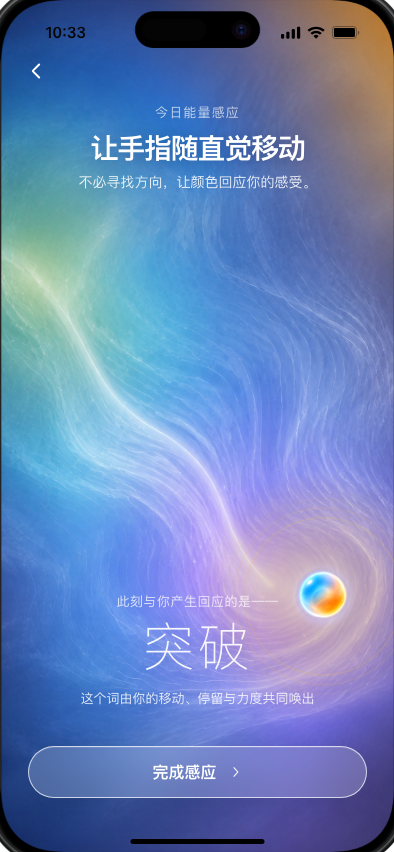
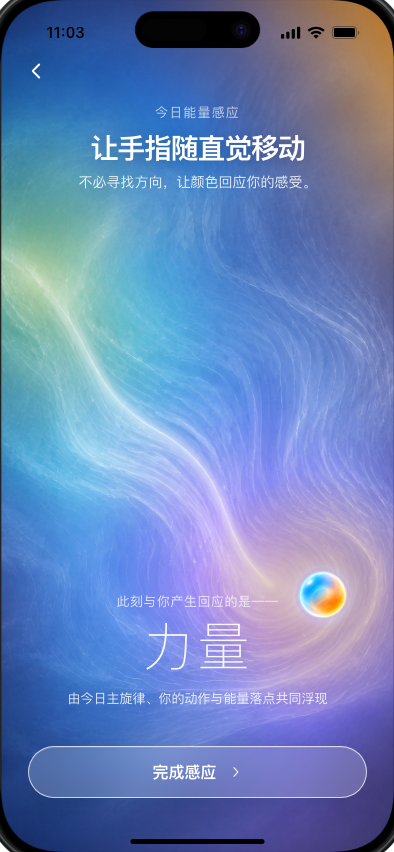
Connect sensing words to energy recommendations

Changed region(s): [[0.1827, 0.7324, 0.8223, 0.8239], [0.1218, 0.0305, 0.2132, 0.061]]

diff --git a/haf-energy-journey-h5/src/Prototype.tsx b/haf-energy-journey-h5/src/Prototype.tsx
@@ -402,7 +402,8 @@ function synthesizeEnergy(point: Point, lifePath: number, personalDay: number, d
   const projection = projectChakras(point, lifePath, personalDay);
   const keywordIds = Object.keys(synthesisModel.keywords) as KeywordId[];
   const scores = Object.fromEntries(keywordIds.map((id) => [id, 0])) as Record<KeywordId, number>;
-  // The moment keyword is intentionally independent from numerology so the user's compass input stays visible.
+  scores[synthesisModel.number_keyword[String(personalDay)]] += synthesisModel.weights.personal_day;
+  scores[synthesisModel.number_keyword[String(lifePath)] ?? synthesisModel.number_keyword[String(reduceNumber(lifePath))]] += synthesisModel.weights.life_path;
   scores[synthesisModel.chakra_keyword[projection.primary.id]] += synthesisModel.weights.primary_chakra;
   scores[synthesisModel.chakra_keyword[projection.secondary.id]] += synthesisModel.weights.secondary_chakra;
   const horizontalMembership = {
@@ -441,9 +442,8 @@ function synthesizeEnergy(point: Point, lifePath: number, personalDay: number, d
   const keyword = synthesisModel.keywords[keywordId];
   const dailyTheme = synthesisModel.keywords[dailyThemeId];
   const numberTheme = numberThemes[String(personalDay)];
-  const momentKey = `${horizontal}_${vertical}`;
-  const readingSeed = `${dateKey}:${personalDay}:${momentKey}:${intensity.id}:${projection.primary.id}:${projection.secondary.id}`;
-  const energySummary = `${chooseStable(momentReadings[momentKey], `${readingSeed}:moment`)}${chooseStable(themeCounsel[dailyThemeId], `${readingSeed}:theme`)}`;
+  const energySummary = `今天的主旋律是“${dailyTheme.display}”，你此刻从“${keyword.display}”靠近；${projection.primary.zh}提醒你留意${projection.primary.themes[0]}。`;
+  const signalsAlign = dailyThemeId === keywordId;
   return {
     dailyThemeId,
     dailyTheme,
@@ -458,14 +458,14 @@ function synthesizeEnergy(point: Point, lifePath: number, personalDay: number, d
       vertical: { id: vertical, label: synthesisModel.compass_labels[vertical] },
     },
     intensity,
-    compositeTitle: dailyTheme.display,
-    compositeLine: dailyTheme.guidance,
+    compositeTitle: signalsAlign ? dailyTheme.display : `${keyword.display} · ${dailyTheme.display}`,
+    compositeLine: signalsAlign ? "今天的主旋律，也正是你此刻最需要靠近的方向。" : `以${keyword.display}的方式，靠近今天的${dailyTheme.display}。`,
     energySummary,
     chakraSummary: `${projection.primary.zh}是今天较清晰的线索，邀请你留意${projection.primary.themes.slice(0, 2).join("与")}；${projection.secondary.zh}也在提醒你，为${projection.secondary.themes[0]}留一点空间。${numberTheme?.gentle_prompt ?? ""}`,
   };
 }
 
-type FitReasonMode = "numerology" | "chakra" | "compass" | "practice";
+type FitReasonMode = "keyword" | "numerology" | "chakra" | "compass" | "practice";
 
 function buildCourseFitReason(
   course: CatalogCourse,
@@ -488,15 +488,16 @@ function buildCourseFitReason(
   const matchesCompass = course.energy_poles.includes(insight.direction.horizontal.id)
     || course.energy_poles.includes(insight.direction.vertical.id);
   const validModes: Record<FitReasonMode, boolean> = {
+    keyword: course.keyword_tags.includes(insight.keywordId),
     numerology: matchesNumerology,
     chakra: Boolean(matchedChakra),
     compass: matchesCompass,
     practice: true,
   };
   const modeOrders: FitReasonMode[][] = [
-    ["numerology", "chakra", "compass", "practice"],
-    ["chakra", "compass", "numerology", "practice"],
-    ["compass", "practice", "chakra", "numerology"],
+    ["keyword", "numerology", "chakra", "compass", "practice"],
+    ["chakra", "keyword", "compass", "numerology", "practice"],
+    ["compass", "keyword", "practice", "chakra", "numerology"],
   ];
   const orderedModes = modeOrders[index] ?? modeOrders[2];
   const mode = orderedModes.find((candidate) => validModes[candidate] && !usedModes.has(candidate))
@@ -513,6 +514,13 @@ function buildCourseFitReason(
     outward_active: "从互动与行动进入状态",
   };
   const seed = `${dateKey}:${course.course_id}:${insight.keywordId}:${mode}`;
+  if (mode === "keyword") {
+    return chooseStable([
+      `你停下来的“${insight.keyword.display}”也出现在这场体验的线索里；${experience}让这份回应有一个具体入口。`,
+      `此刻浮现的“${insight.keyword.display}”与${experience}彼此呼应，可以先收藏，在合适的时候进入。`,
+      `顺着你感应到的“${insight.keyword.display}”，${experience}提供了一条更具体的体验路径。`,
+    ], seed);
+  }
   if (mode === "numerology") {
     return chooseStable([
       `此刻的“${insight.dailyTheme.display}”需要一个具体入口；${experience}让它先变得可被感知。`,
@@ -667,7 +675,7 @@ function dailyGreetingCacheKey(dateKey: string, dayNumber: number, lifePath: num
 }
 
 function energyReadingCacheKey(dateKey: string, dayNumber: number, insight: EnergyInsight) {
-  return `haf-energy-reading:${dateKey}:${dayNumber}:${insight.direction.horizontal.id}:${insight.direction.vertical.id}:${insight.intensity.id}:${insight.primaryChakra.id}:${insight.secondaryChakra.id}`;
+  return `haf-energy-reading:v2:${dateKey}:${dayNumber}:${insight.keywordId}:${insight.direction.horizontal.id}:${insight.direction.vertical.id}:${insight.intensity.id}:${insight.primaryChakra.id}:${insight.secondaryChakra.id}`;
 }
 
 async function requestJson<T>(endpoint: string, payload: Record<string, unknown>): Promise<T | null> {
@@ -1069,14 +1077,14 @@ function ProfileScreen() {
   );
 }
 
-const sensingDimensions: Record<ChakraId, { core: string; words: string[]; tone: string }> = {
-  root: { core: "稳定", words: ["落地", "安定", "扎根", "承载"], tone: "#9c3141" },
-  sacral: { core: "生命力", words: ["焕发", "流动", "感受", "创造"], tone: "#e47b32" },
-  solar_plexus: { core: "行动力", words: ["突破", "勇气", "选择", "行动"], tone: "#e0b344" },
-  heart: { core: "关系", words: ["链接", "敞开", "共鸣", "接纳"], tone: "#75b99a" },
-  throat: { core: "表达", words: ["发声", "真实", "沟通", "释放"], tone: "#3db7d4" },
-  third_eye: { core: "洞察", words: ["内观", "求索", "看见", "清明"], tone: "#526bd3" },
-  crown: { core: "意识", words: ["觉醒", "超越", "整合", "领悟"], tone: "#9b72d0" },
+const sensingDimensions: Record<ChakraId, { core: string; tone: string }> = {
+  root: { core: "稳定", tone: "#9c3141" },
+  sacral: { core: "生命力", tone: "#e47b32" },
+  solar_plexus: { core: "行动力", tone: "#e0b344" },
+  heart: { core: "关系", tone: "#75b99a" },
+  throat: { core: "表达", tone: "#3db7d4" },
+  third_eye: { core: "洞察", tone: "#526bd3" },
+  crown: { core: "意识", tone: "#9b72d0" },
 };
 
 type SensingCursor = {
@@ -1105,6 +1113,7 @@ function SensingRippleCanvas({ cursor, active }: { cursor: SensingCursor; active
   const lastSequenceRef = useRef(-1);
   const ripplesRef = useRef<Array<{ x: number; y: number; pressure: number; tone: string; born: number }>>([]);
   const trailRef = useRef<Array<{ x: number; y: number; pressure: number; tone: string; born: number }>>([]);
+  const lastRippleAtRef = useRef(0);
 
   useEffect(() => {
     cursorRef.current = cursor;
@@ -1113,9 +1122,12 @@ function SensingRippleCanvas({ cursor, active }: { cursor: SensingCursor; active
     lastSequenceRef.current = cursor.sequence;
     const born = performance.now();
     trailRef.current.push({ x: cursor.x, y: cursor.y, pressure: cursor.pressure, tone: cursor.tone, born });
-    if (active) ripplesRef.current.push({ x: cursor.x, y: cursor.y, pressure: cursor.pressure, tone: cursor.tone, born });
-    trailRef.current = trailRef.current.slice(-28);
-    ripplesRef.current = ripplesRef.current.slice(-18);
+    if (active && born - lastRippleAtRef.current >= 420) {
+      ripplesRef.current.push({ x: cursor.x, y: cursor.y, pressure: cursor.pressure, tone: cursor.tone, born });
+      lastRippleAtRef.current = born;
+    }
+    trailRef.current = trailRef.current.slice(-18);
+    ripplesRef.current = ripplesRef.current.slice(-5);
   }, [active, cursor]);
 
   useEffect(() => {
@@ -1125,7 +1137,15 @@ function SensingRippleCanvas({ cursor, active }: { cursor: SensingCursor; active
     if (!context) return undefined;
     const prefersReducedMotion = window.matchMedia("(prefers-reduced-motion: reduce)").matches;
     let frame = 0;
+    let lastFrameTime = 0;
     const render = (now: number) => {
+      const hasTransientMotion = activeRef.current || trailRef.current.length > 0 || ripplesRef.current.length > 0;
+      const frameInterval = hasTransientMotion ? 32 : 250;
+      if (now - lastFrameTime < frameInterval) {
+        frame = window.requestAnimationFrame(render);
+        return;
+      }
+      lastFrameTime = now;
       const bounds = canvas.getBoundingClientRect();
       const ratio = Math.min(window.devicePixelRatio || 1, 2);
       const width = Math.max(1, Math.round(bounds.width * ratio));
@@ -1148,7 +1168,7 @@ function SensingRippleCanvas({ cursor, active }: { cursor: SensingCursor; active
       context.fillStyle = glow;
       context.fillRect(0, 0, bounds.width, bounds.height);
 
-      const visibleTrail = prefersReducedMotion ? [] : trailRef.current.filter((item) => now - item.born < 1700);
+      const visibleTrail = prefersReducedMotion ? [] : trailRef.current.filter((item) => now - item.born < 1200);
       trailRef.current = visibleTrail;
       if (visibleTrail.length > 1) {
         const latest = visibleTrail[visibleTrail.length - 1];
@@ -1172,16 +1192,15 @@ function SensingRippleCanvas({ cursor, active }: { cursor: SensingCursor; active
         context.shadowBlur = 0;
       }
 
-      ripplesRef.current = prefersReducedMotion ? [] : ripplesRef.current.filter((ripple) => now - ripple.born < 1500);
+      ripplesRef.current = prefersReducedMotion ? [] : ripplesRef.current.filter((ripple) => now - ripple.born < 950);
       ripplesRef.current.forEach((ripple) => {
-        const age = clampSensing((now - ripple.born) / 1500, 0, 1);
-        const rippleRgb = toneRgb(ripple.tone);
+        const age = clampSensing((now - ripple.born) / 950, 0, 1);
         context.beginPath();
-        context.arc(ripple.x, ripple.y, 12 + age * (58 + ripple.pressure * 58), 0, Math.PI * 2);
-        context.lineWidth = 1 + (1 - age) * ripple.pressure * 2.4;
-        context.strokeStyle = `rgba(${rippleRgb.r},${rippleRgb.g},${rippleRgb.b},${(1 - age) * (.36 + ripple.pressure * .34)})`;
-        context.shadowColor = `rgba(255,255,255,${(1 - age) * .34})`;
-        context.shadowBlur = 8 + ripple.pressure * 14;
+        context.arc(ripple.x, ripple.y, 14 + age * (42 + ripple.pressure * 34), 0, Math.PI * 2);
+        context.lineWidth = .8 + (1 - age) * ripple.pressure * 1.2;
+        context.strokeStyle = `rgba(255,255,255,${(1 - age) * (.24 + ripple.pressure * .2)})`;
+        context.shadowColor = `rgba(255,255,255,${(1 - age) * .26})`;
+        context.shadowBlur = 6 + ripple.pressure * 8;
         context.stroke();
       });
       context.shadowBlur = 0;
@@ -1197,29 +1216,30 @@ function SensingRippleCanvas({ cursor, active }: { cursor: SensingCursor; active
 
 function CompassScreen() {
   const flow = useFlow();
-  const { point, setPoint, lifePath, dayNumber } = useJourney();
-  const initialProjection = useMemo(() => projectChakras(point, lifePath, dayNumber), [dayNumber, lifePath, point]);
+  const { point, setPoint, lifePath, dayNumber, dateKey } = useJourney();
+  const initialInsight = useMemo(() => synthesizeEnergy(point, lifePath, dayNumber, dateKey), [dateKey, dayNumber, lifePath, point]);
   const [phase, setPhase] = useState<"idle" | "sensing" | "locked">("idle");
-  const [dimensionId, setDimensionId] = useState<ChakraId>(initialProjection.primary.id);
-  const [currentWord, setCurrentWord] = useState(sensingDimensions[initialProjection.primary.id].words[0]);
+  const [dimensionId, setDimensionId] = useState<ChakraId>(initialInsight.primaryChakra.id);
+  const [currentKeywordId, setCurrentKeywordId] = useState<KeywordId>(initialInsight.keywordId);
+  const [currentDirection, setCurrentDirection] = useState(initialInsight.direction);
+  const [readyToComplete, setReadyToComplete] = useState(false);
   const [cursor, setCursor] = useState<SensingCursor>({
     x: 196,
     y: 448,
     xRatio: (point.x + 1) / 2,
     yRatio: (point.y + 1) / 2,
     pressure: .22,
-    tone: sensingDimensions[initialProjection.primary.id].tone,
+    tone: sensingDimensions[initialInsight.primaryChakra.id].tone,
     sequence: 0,
   });
   const livePointRef = useRef(point);
-  const wordIndexRef = useRef<Record<string, number>>({});
+  const pendingInsightRef = useRef(initialInsight);
   const sessionRef = useRef({ start: 0, lastTime: 0, lastX: 196, lastY: 448, totalTravel: 0, lastWordAt: 0 });
 
-  const advanceWord = (nextDimensionId: ChakraId) => {
-    const words = sensingDimensions[nextDimensionId].words;
-    const nextIndex = ((wordIndexRef.current[nextDimensionId] ?? -1) + 1) % words.length;
-    wordIndexRef.current[nextDimensionId] = nextIndex;
-    setCurrentWord(words[nextIndex]);
+  const revealInsight = (insight: EnergyInsight) => {
+    setCurrentKeywordId(insight.keywordId);
+    setCurrentDirection(insight.direction);
+    setDimensionId(insight.primaryChakra.id);
   };
 
   const updateGesture = (event: ReactPointerEvent<HTMLDivElement>) => {
@@ -1246,11 +1266,13 @@ function CompassScreen() {
       y: clampSensing(rawPoint.y + forcefulMovement * .3 - slowCenter * .22, -.88, .88),
     };
     livePointRef.current = shapedPoint;
-    const projection = projectChakras(shapedPoint, lifePath, dayNumber);
-    const nextDimensionId = projection.primary.id;
-    if (nextDimensionId !== dimensionId && now - session.lastWordAt > 520) {
-      setDimensionId(nextDimensionId);
-      advanceWord(nextDimensionId);
+    const nextInsight = synthesizeEnergy(shapedPoint, lifePath, dayNumber, dateKey);
+    pendingInsightRef.current = nextInsight;
+    const nextDimensionId = nextInsight.primaryChakra.id;
+    setDimensionId(nextDimensionId);
+    setCurrentDirection(nextInsight.direction);
+    if (nextInsight.keywordId !== currentKeywordId && now - session.lastWordAt >= 1650) {
+      revealInsight(nextInsight);
       session.lastWordAt = now;
     }
     const nativePressure = event.pressure > 0 ? event.pressure : 0;
@@ -1276,15 +1298,22 @@ function CompassScreen() {
       const session = sessionRef.current;
       const holdPressure = clampSensing((now - session.start) / 1200, 0, 1);
       setCursor((current) => ({ ...current, pressure: Math.max(current.pressure, .22 + holdPressure * .46), sequence: current.sequence + 1 }));
-      if (now - session.lastWordAt >= 1750) {
-        const projection = projectChakras(livePointRef.current, lifePath, dayNumber);
-        setDimensionId(projection.primary.id);
-        advanceWord(projection.primary.id);
+      if (now - session.lastWordAt >= 1650) {
+        revealInsight(pendingInsightRef.current);
         session.lastWordAt = now;
       }
     }, 140);
     return () => window.clearInterval(timer);
-  }, [dayNumber, lifePath, phase]);
+  }, [phase]);
+
+  useEffect(() => {
+    if (phase !== "locked") {
+      setReadyToComplete(false);
+      return undefined;
+    }
+    const timer = window.setTimeout(() => setReadyToComplete(true), 650);
+    return () => window.clearTimeout(timer);
+  }, [phase]);
 
   const beginSensing = (event: ReactPointerEvent<HTMLDivElement>) => {
     event.preventDefault();
@@ -1294,7 +1323,7 @@ function CompassScreen() {
     const localX = clampSensing(event.clientX - bounds.left, 0, bounds.width);
     const localY = clampSensing(event.clientY - bounds.top, 0, bounds.height);
     sessionRef.current = { start: now, lastTime: now, lastX: localX, lastY: localY, totalTravel: 0, lastWordAt: now };
-    wordIndexRef.current = {};
+    pendingInsightRef.current = synthesizeEnergy(livePointRef.current, lifePath, dayNumber, dateKey);
     setPhase("sensing");
     updateGesture(event);
   };
@@ -1304,11 +1333,12 @@ function CompassScreen() {
     updateGesture(event);
     event.currentTarget.releasePointerCapture(event.pointerId);
     setPoint(livePointRef.current);
+    revealInsight(pendingInsightRef.current);
     setPhase("locked");
     setCursor((current) => ({ ...current, pressure: Math.max(.72, current.pressure), sequence: current.sequence + 1 }));
   };
 
-  const dimension = sensingDimensions[dimensionId];
+  const currentWord = synthesisModel.keywords[currentKeywordId].display;
   const backgroundX = (cursor.xRatio - .5) * -18;
   const backgroundY = (cursor.yRatio - .5) * -14;
   return (
@@ -1333,7 +1363,7 @@ function CompassScreen() {
           aria-valuemin={-100}
           aria-valuemax={100}
           aria-valuenow={Math.round(livePointRef.current.x * 100)}
-          aria-valuetext={`${dimension.core} · ${currentWord}`}
+          aria-valuetext={`${currentDirection.horizontal.label} · ${currentDirection.vertical.label} · ${currentWord}`}
           tabIndex={0}
           onPointerDown={beginSensing}
           onPointerMove={(event) => event.currentTarget.hasPointerCapture(event.pointerId) && updateGesture(event)}
@@ -1360,10 +1390,10 @@ function CompassScreen() {
               {currentWord}
             </motion.strong>
           </AnimatePresence>
-          <p>{phase === "idle" ? "按住画面，让手指随直觉移动" : phase === "sensing" ? "当一个词与你相遇，就松开手指" : "这个词由你的移动、停留与力度共同唤出"}</p>
+          <p>{phase === "idle" ? "按住画面，让手指随直觉移动" : phase === "sensing" ? `${currentDirection.horizontal.label} · ${currentDirection.vertical.label}` : "由今日主旋律、你的动作与能量落点共同浮现"}</p>
         </section>
         <AnimatePresence>
-          {phase === "locked" && (
+          {phase === "locked" && readyToComplete && (
             <motion.button
               className="sensing-complete"
               onClick={() => flow.push(makeScreen("synthesis"))}
@@ -1439,12 +1469,12 @@ function ResultScreen() {
         <section className="result-insight">
           <div className="result-copy">
             <small>今日能量回响</small>
-            <h1>{insight.dailyTheme.display}</h1>
+            <h1>{insight.compositeTitle}</h1>
             <p>{energyReading}</p>
           </div>
           <div className="energy-facets" aria-label="今日能量的三个线索">
             <span><small>今日灵数</small><strong>{dayNumber}</strong><em>{insight.dailyTheme.display}</em></span>
-            <span><small>此刻行动</small><strong>{insight.direction.horizontal.label}</strong><em>{insight.direction.vertical.label}</em></span>
+            <span><small>此刻方向</small><strong>{insight.direction.horizontal.label}</strong><em>{insight.direction.vertical.label}</em></span>
             <span><small>能量落点</small><strong>{insight.primaryChakra.zh}</strong><em>{insight.primaryChakra.themes.slice(0, 2).join(" · ")}</em></span>
           </div>
         </section>

diff --git a/haf-energy-journey-h5/docs/SENSING_WORD_CONNECTION_AUDIT.md b/haf-energy-journey-h5/docs/SENSING_WORD_CONNECTION_AUDIT.md
@@ -1,0 +1,43 @@
+# Sensing Word Connection Audit
+
+Date: 2026-08-26
+
+## Evidence
+
+- Before: `qa/word-connection-audit-2026-08-26/01-current-sensing.png`
+- Active after: `qa/visual-refresh-2026-08-26/compass-active-implementation.png`
+- Locked after: `qa/visual-refresh-2026-08-26/compass-implementation.png`
+- Same-journey result: `qa/visual-refresh-2026-08-26/result-implementation.png`
+
+## Finding
+
+The former 28-word chakra carousel was visually evocative but functionally disconnected. A user could stop on `行动`, `突破`, or `觉醒`, while the deterministic synthesis and recommendation engine continued using a different locked keyword family. This made the sensing word feel decorative and made the transition to numerology, chakra, and course recommendations difficult to trust.
+
+The colored ring count also accumulated quickly. It competed with the generated flow field and created unnecessary Canvas work on a mobile device.
+
+## Resolution
+
+The sensing page now displays only the ten canonical `haf.energy-synthesis.v2` keyword families:
+
+`开始 · 连接 · 表达 · 安定 · 流动 · 关照 · 照见 · 力量 · 放下 · 整合`
+
+Every visible word is the current top-ranked synthesis result from:
+
+- Personal Day: 12%
+- Life Path: 5%
+- primary chakra: 22%
+- secondary chakra: 6%
+- continuous gesture/compass field: 55%
+
+Release commits the continuous point and locks the same deterministic word. The result title preserves it as `{感应词} · {今日主旋律}` when the two differ. The same keyword ID participates in the course score, and a card reason cites the word only when that course's normalized metadata contains the matching keyword evidence.
+
+Ripples are now white, limited to five retained particles, throttled to one spawn per 420ms, and faded within 950ms. Canvas rendering is approximately 30fps only while touch or transient motion is active, then drops to roughly 4fps when visually idle. The colored field glow and short trail remain as lightweight feedback for the energy dimension.
+
+## Health
+
+1. Press and move — healthy: the live direction follows the pointer immediately; the synthesized word changes at a restrained cadence.
+2. Release and lock — healthy: the final word settles before the completion action becomes available.
+3. Result — healthy: the locked word is preserved in the result title and summary.
+4. Recommendation — healthy: the locked keyword, chakra gate, compass poles, practice fit, and recency all participate in retrieval; unsupported keyword claims are never added to course copy.
+
+Screenshot evidence can confirm hierarchy and continuity. Canvas frame pacing and long-session battery behavior still require testing on representative physical iPhones before production release.

diff --git a/haf-energy-journey-h5/AGENTS.md b/haf-energy-journey-h5/AGENTS.md
@@ -13,6 +13,7 @@
 - The experience now uses the full mini-program viewport. App-owned H5 backgrounds must paint edge to edge behind the status bar and home-indicator areas, while controls and readable content preserve the device safe areas.
 - The core flow is spiritual loading -> one-time profile -> full-screen intuitive sensing -> synthesis -> daily keyword and three course recommendations.
 - The sensing screen never exposes axes, seven points, or chakra terminology. It uses `public/assets/haf/visual-refresh/intuitive-flow-field-v1.png` as its real full-screen visual field, a Canvas trail/ripple layer, and the existing energy orb. Press/hold time, movement speed, movement range, pointer pressure when available, and continuous position shape the existing versioned HAF compass point; releasing locks the current word. Keep the seven HAF chakra dimensions, numerology weights, and primary/secondary projection in the backend model unchanged. The locked `完成感应` action is a translucent 52px glass pill matching the result screen's `换一批` treatment, never a solid blue button. Honor reduced-motion preferences by keeping the field static and suppressing trails/ripples.
+- Sensing ripples are sparse white light, not chakra-colored rings: throttle them to roughly one every 420ms, retain at most five, render the Canvas around 30fps only while touch/trail motion is active, fall back to about 4fps when visually idle, and let each ring disappear within about 950ms. The word shown during sensing must be the actual `haf.energy-synthesis.v2` keyword, weighted from Personal Day (12%), Life Path (5%), primary chakra (22%), secondary chakra (6%), and the continuous compass field (55%). Never maintain a separate decorative word carousel. The locked word must reappear in the result composite title, energy summary, recommendation keyword score, and a keyword-grounded course reason whenever the course metadata supports it.
 - Before the first profile, explain the experience in three concise steps: `天生线索`, `此刻感应`, and `今日回响`. Promise only the outputs the product actually provides: a daily keyword, one energy interpretation, and three fitting practices.
 - First-time profile data is stored locally and skipped on later visits; users can reset it from the result screen.
 - On second and later visits, loading leads to a short, text-led returning ritual and one clear “开始今日感应” action before the compass. Do not use an energy orb on this returning greeting, and do not repeat the birthday/profile form unless the user resets it.

diff --git a/haf-energy-journey-h5/docs/INTUITIVE_SENSING_DESIGN_QA.md b/haf-energy-journey-h5/docs/INTUITIVE_SENSING_DESIGN_QA.md
@@ -27,6 +27,9 @@ Branch: `design/visual-refresh-2026-08-26`
 | Word transition cadence is approximately 1.75 seconds | Pass |
 | Release locks the current word | Pass |
 | Canvas ripple and luminous trail respond to movement | Pass |
+| Ripples are sparse white rings, capped at five and rendered around 30fps | Pass |
+| Visible word is the canonical weighted synthesis keyword, not a decorative chakra synonym | Pass |
+| Locked word persists into the result title, summary, recommendation score, and supported fit reason | Pass |
 | `完成感应` replaces pagination dots | Pass |
 | `完成感应` matches `换一批`: 52px, translucent white fill, white hairline, 16px blur | Pass |
 | Reduced-motion removes moving trail/ripple and background transitions | Pass |
